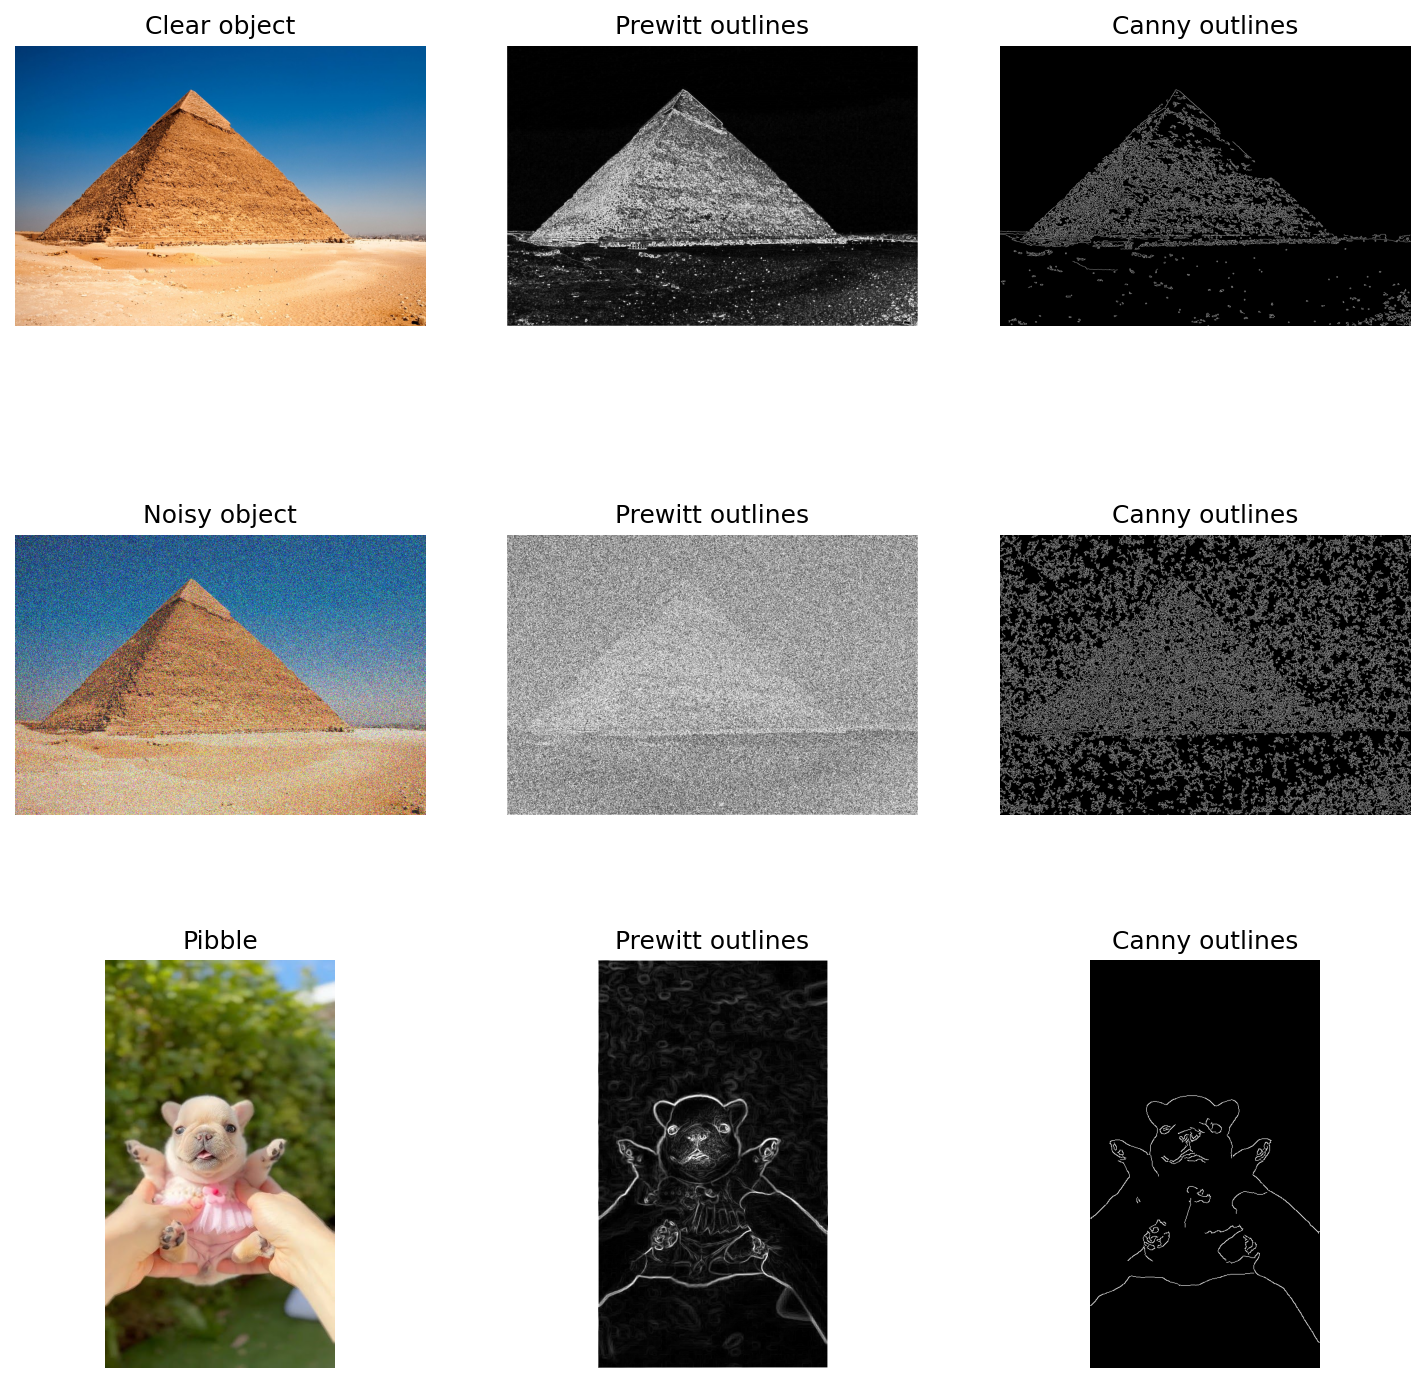
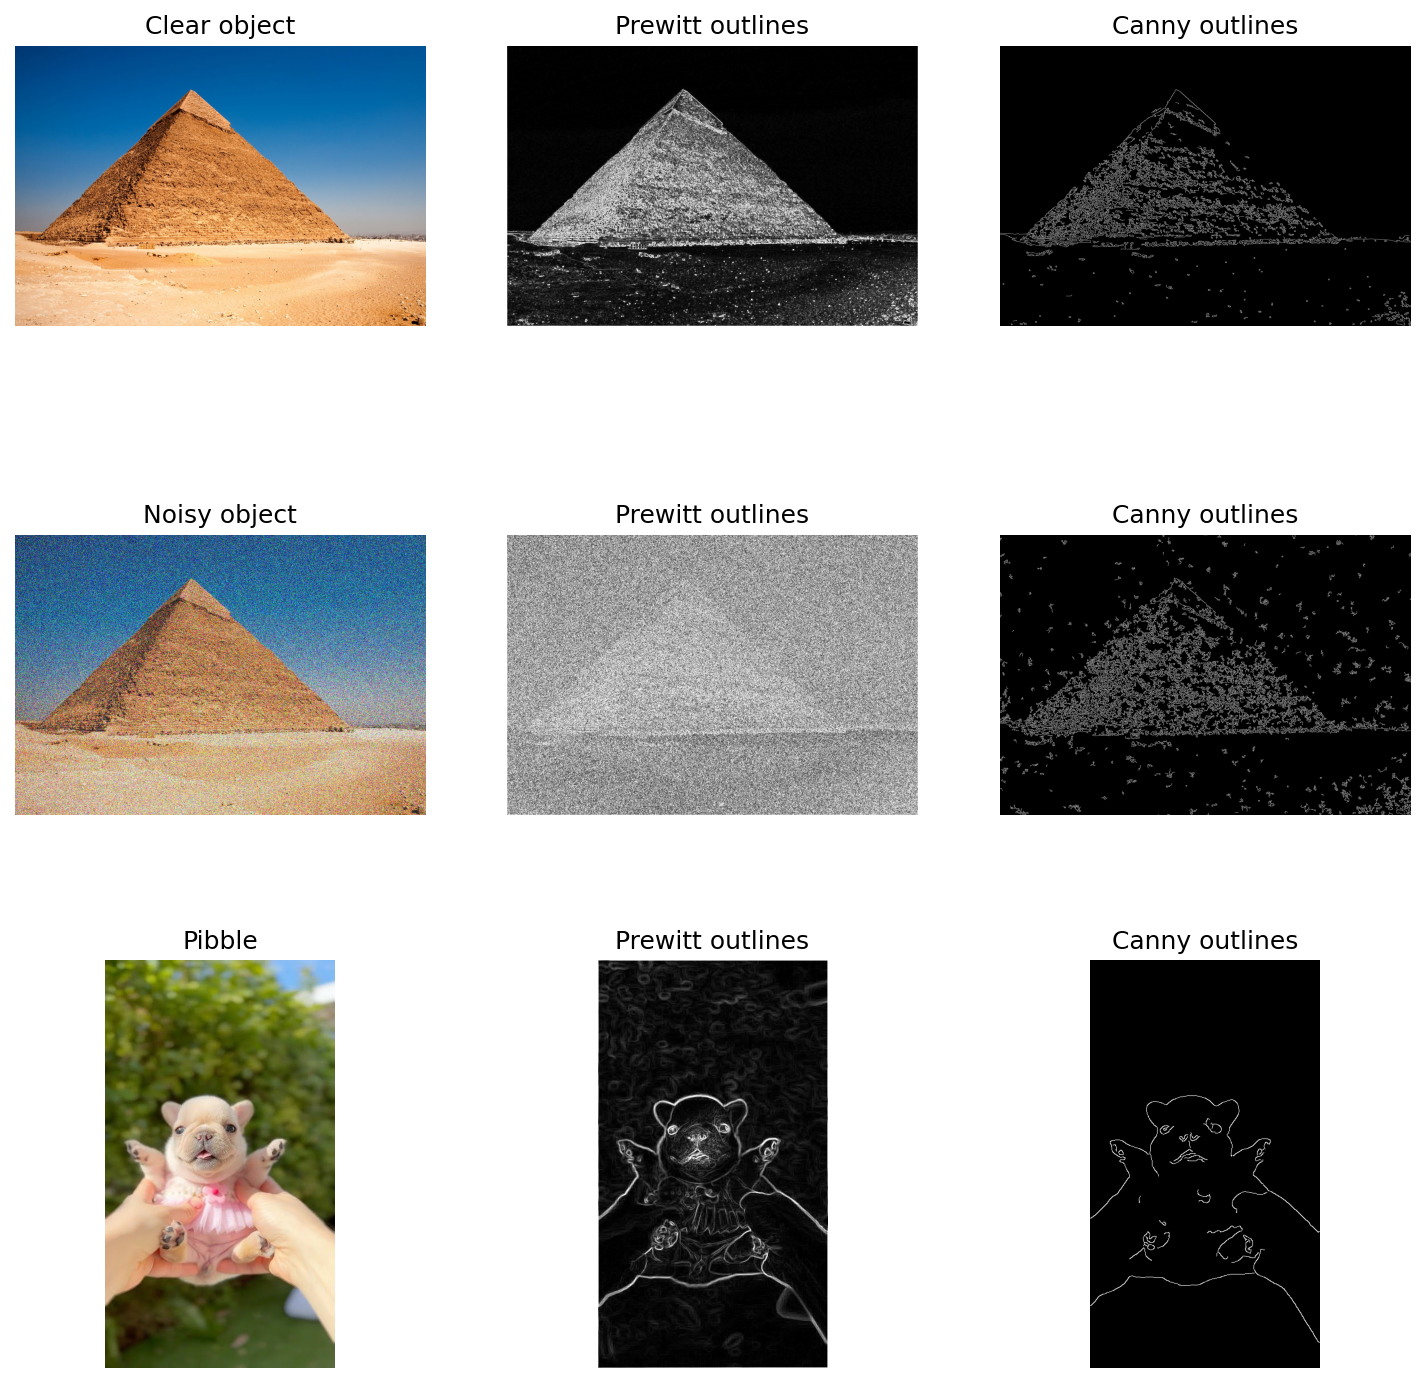
canny gradient now proper

Changed region(s): [[0.6793, 0.3731, 0.9881, 0.5907], [0.7102, 0.0622, 0.9263, 0.1866]]

diff --git a/main.py b/main.py
@@ -57,7 +57,7 @@ def Canny_outline(image):
     gray = cv2.cvtColor(image, cv2.COLOR_BGR2GRAY)
     removed_noise = cv2.GaussianBlur(gray, (5, 5), sigmaX=2, sigmaY=2)
     edges = cv2.Canny(
-        removed_noise, threshold1=50, threshold2=150, apertureSize=3, L2gradient=False
+        removed_noise, threshold1=50, threshold2=150, apertureSize=3, L2gradient=True
     )
     return cv2.cvtColor(edges, cv2.COLOR_GRAY2BGR)
 
